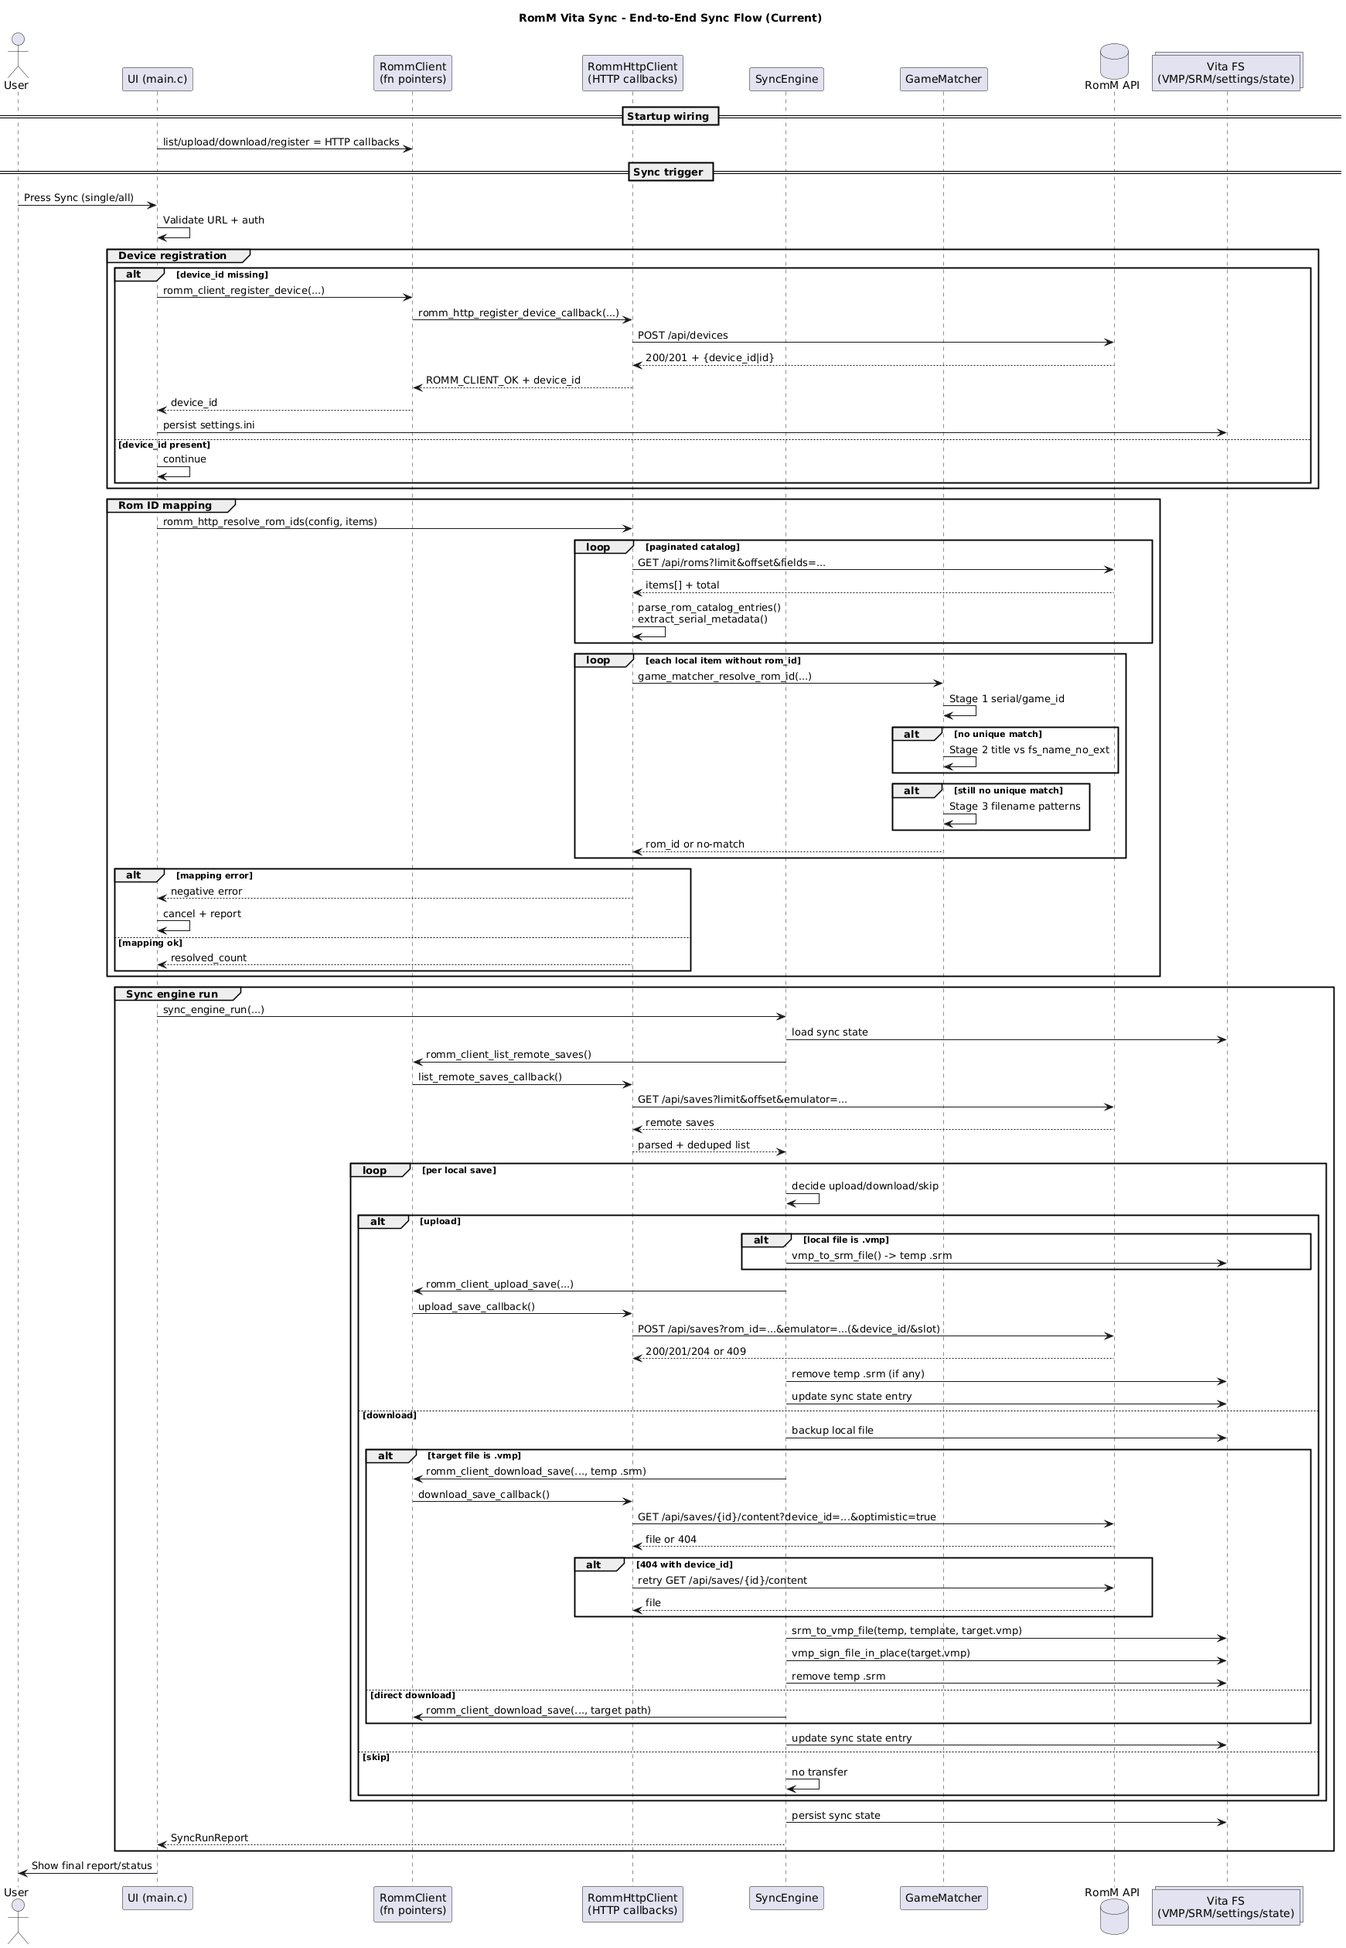
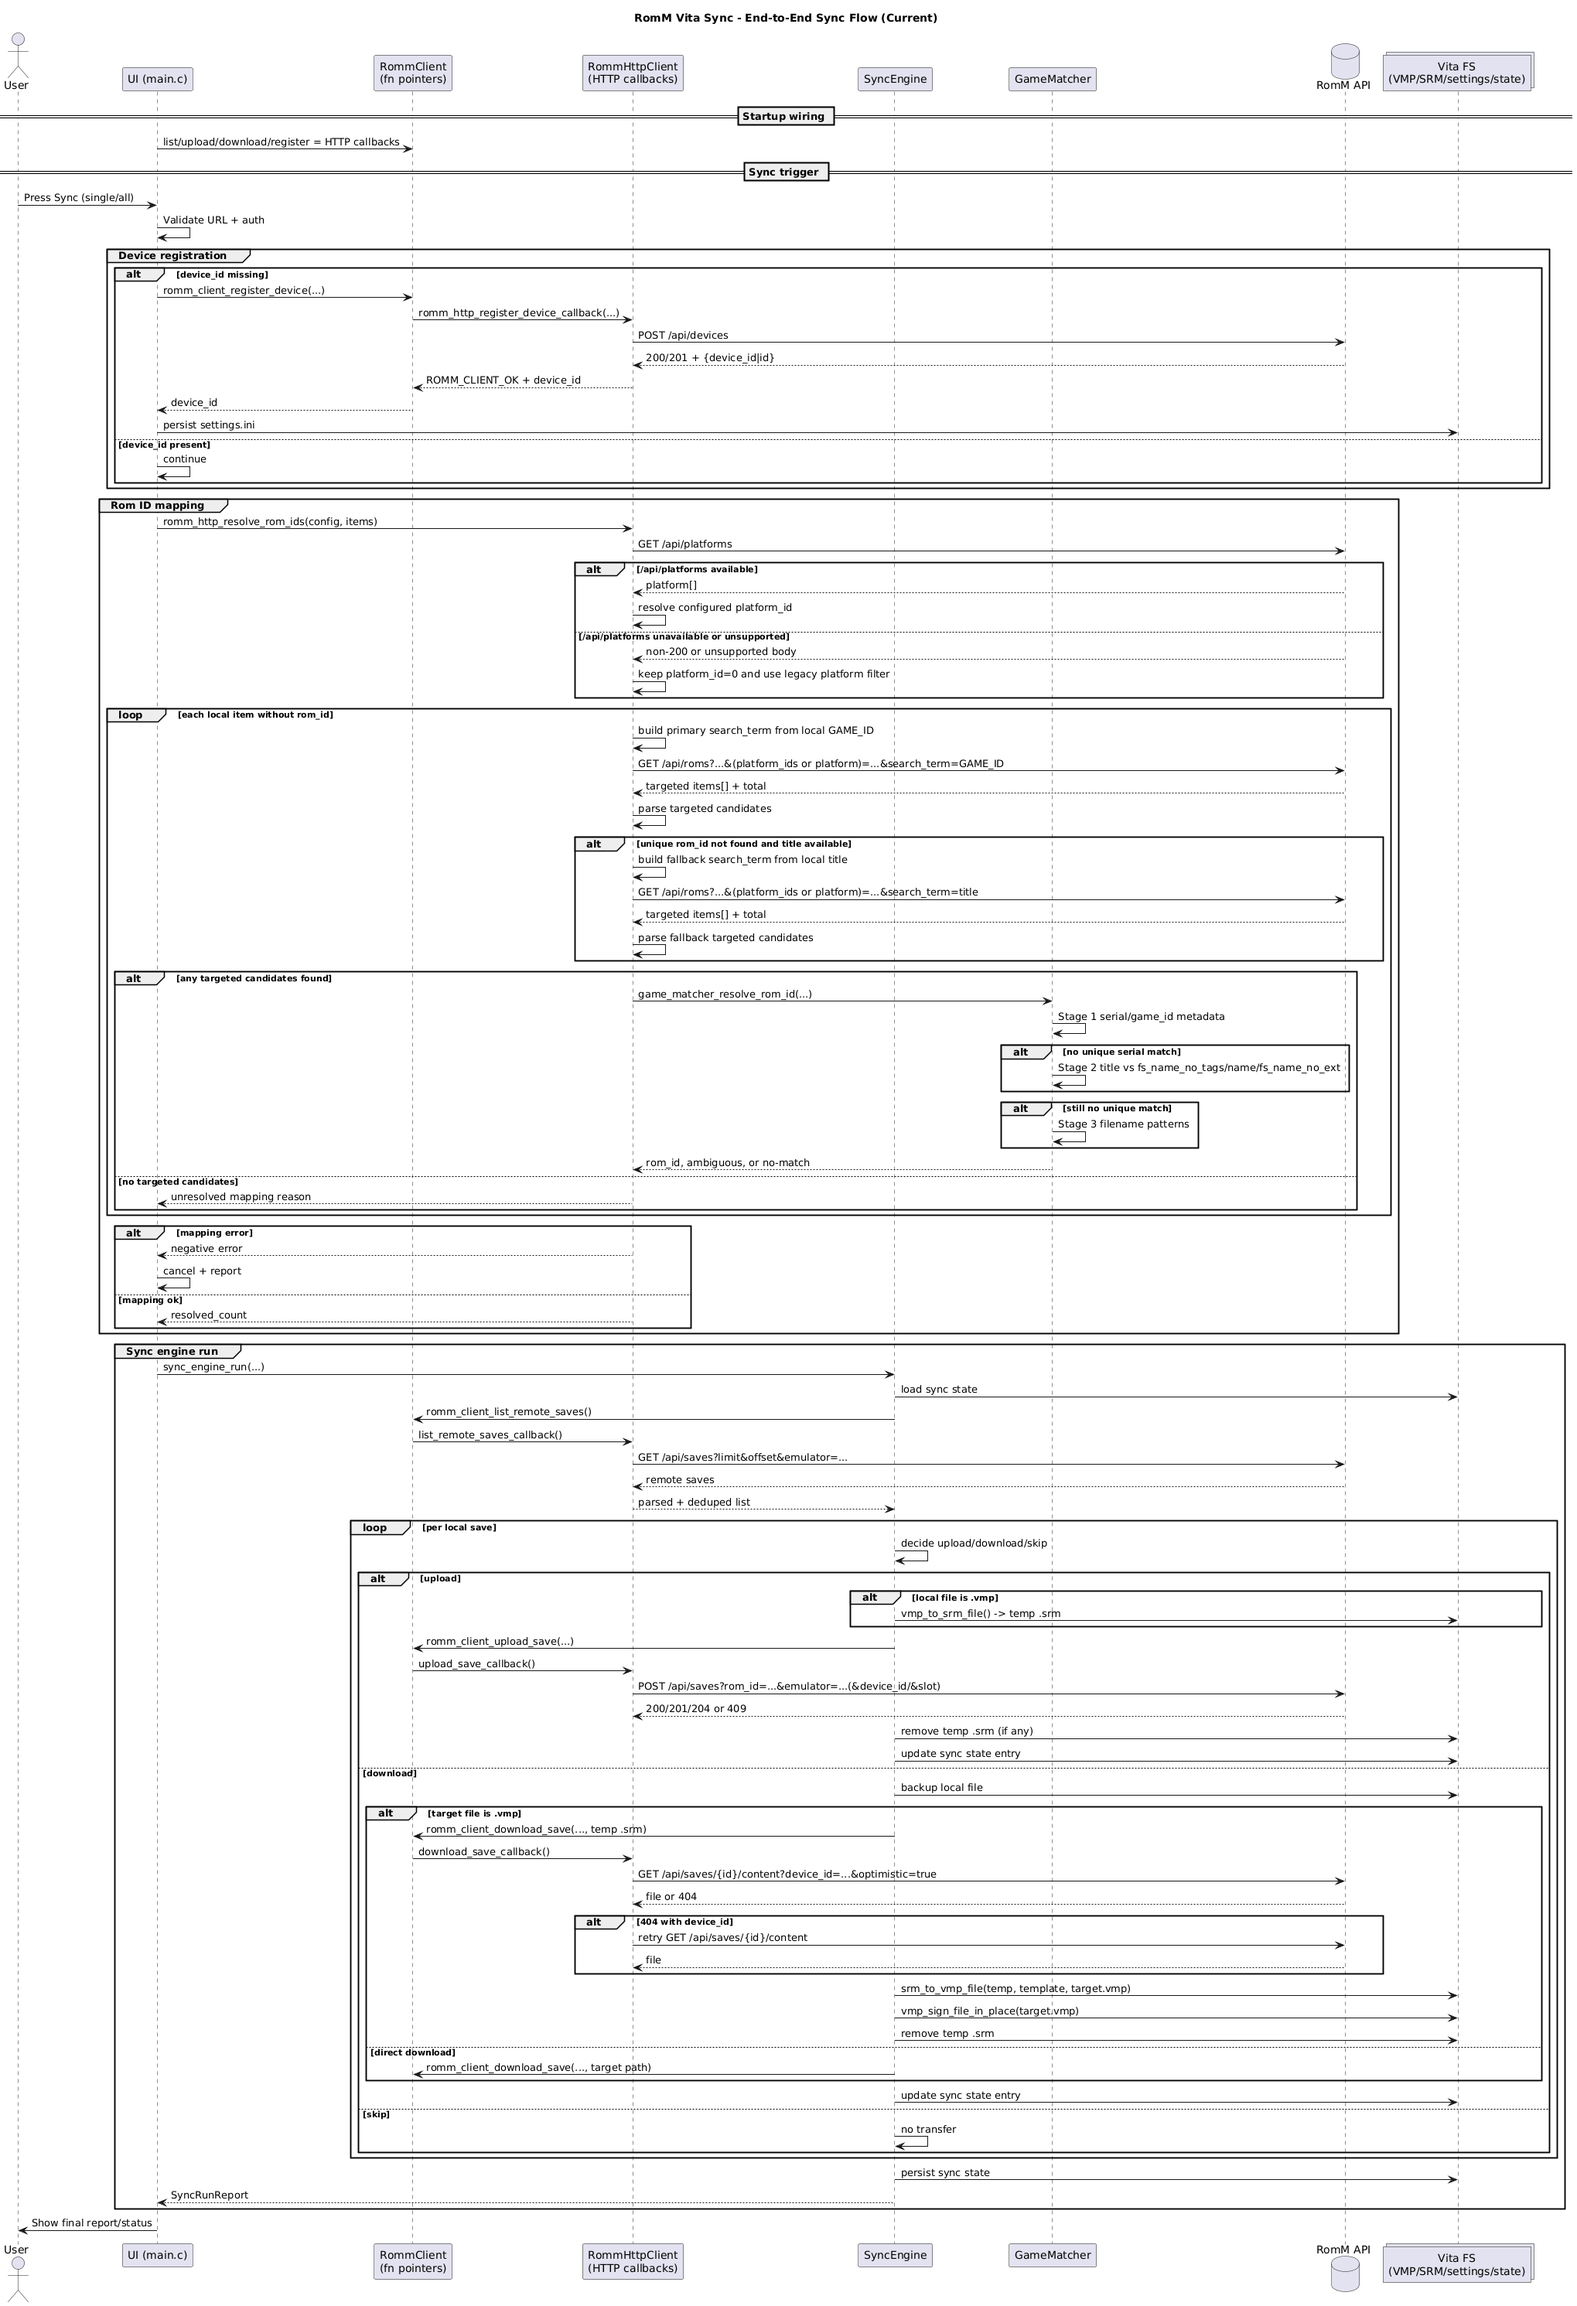
feat(sync-engine): enhance Rom ID mapping with fallback logic

diff --git a/src/romm_http_client.c b/src/romm_http_client.c
@@ -433,25 +433,14 @@ static const char *romm_save_emulator(const AppConfig *config) {
 }
 
 /*
- * Builds a compact search term from a local title or GAME_ID for /api/roms.
+ * Builds a compact search term from one local text source for /api/roms.
  * Non-alnum separators collapse to single spaces so symbols like TM do not block matches.
  */
-static int build_rom_search_term(
-    const SyncSaveDescriptor *local_item,
+static int build_compact_search_term(
+    const char *source,
     char *out_term,
     size_t out_term_size) {
-  if ((local_item == NULL) || (out_term == NULL) || (out_term_size == 0U)) {
-    return -1;
-  }
-
-  out_term[0] = '\0';
-
-  const char *source = NULL;
-  if (has_text(local_item->title)) {
-    source = local_item->title;
-  } else if (has_text(local_item->game_id)) {
-    source = local_item->game_id;
-  } else {
+  if (!has_text(source) || (out_term == NULL) || (out_term_size == 0U)) {
     return -1;
   }
 
@@ -479,6 +468,41 @@ static int build_rom_search_term(
   out_term[out] = '\0';
 
   return (out >= 4U) ? 0 : -1;
+}
+
+/*
+ * Builds the primary /api/roms search term.
+ * Prefer GAME_ID because it is usually the most stable identifier across localized titles.
+ */
+static int build_rom_search_term(
+    const SyncSaveDescriptor *local_item,
+    char *out_term,
+    size_t out_term_size) {
+  if ((local_item == NULL) || (out_term == NULL) || (out_term_size == 0U)) {
+    return -1;
+  }
+
+  out_term[0] = '\0';
+  if (build_compact_search_term(local_item->game_id, out_term, out_term_size) == 0) {
+    return 0;
+  }
+
+  return build_compact_search_term(local_item->title, out_term, out_term_size);
+}
+
+/*
+ * Builds a secondary title-based search term when GAME_ID pre-filtering misses localized entries.
+ */
+static int build_rom_title_search_term(
+    const SyncSaveDescriptor *local_item,
+    char *out_term,
+    size_t out_term_size) {
+  if ((local_item == NULL) || (out_term == NULL) || (out_term_size == 0U)) {
+    return -1;
+  }
+
+  out_term[0] = '\0';
+  return build_compact_search_term(local_item->title, out_term, out_term_size);
 }
 
 /*
@@ -2005,7 +2029,8 @@ static int parse_platform_id_from_list(
 
 /*
  * Looks up the numeric RomM platform id used by current API versions.
- * Returns ROMM_CLIENT_OK on success, with out_platform_id set to 0 when no match exists.
+ * Returns ROMM_CLIENT_OK on success, with out_platform_id set to 0 when no match exists
+ * or when /api/platforms is unavailable and the legacy rom query should be used instead.
  */
 static int resolve_platform_id(
     const AppConfig *config,
@@ -2038,16 +2063,23 @@ static int resolve_platform_id(
     return ROMM_CLIENT_ERR_AUTH;
   }
   if (status_code != 200) {
-    app_log_write(APP_LOG_LEVEL_WARN, "http", "platform lookup failed status=%d", status_code);
+    app_log_write(
+        APP_LOG_LEVEL_WARN,
+        "http",
+        "platform lookup failed status=%d; falling back to legacy rom query",
+        status_code);
     free(body);
-    return ROMM_CLIENT_ERR_NETWORK;
+    return ROMM_CLIENT_OK;
   }
 
   int parse_status = parse_platform_id_from_list(body, platform_slug, out_platform_id);
   free(body);
   if (parse_status < 0) {
-    app_log_write(APP_LOG_LEVEL_WARN, "http", "platform lookup returned unsupported response format");
-    return ROMM_CLIENT_ERR_NETWORK;
+    app_log_write(
+        APP_LOG_LEVEL_WARN,
+        "http",
+        "platform lookup returned unsupported response format; falling back to legacy rom query");
+    return ROMM_CLIENT_OK;
   }
 
   if (*out_platform_id > 0) {
@@ -2469,40 +2501,61 @@ int romm_http_resolve_rom_ids(
 
     char search_term[ROMM_HTTP_MAX_SEARCH_TERM];
     search_term[0] = '\0';
-    if (build_rom_search_term(local_item, search_term, sizeof(search_term)) == 0) {
-      if (!sync_string_ieq(search_term, last_search_term)) {
-        int search_status = fetch_rom_catalog(
-            config,
-            platform_filter,
-            platform_id,
-            search_term,
-            search_catalog,
-            ROMM_HTTP_MAX_SEARCH_ROMS,
-            body,
-            ROMM_HTTP_MAX_BODY_SIZE,
-            &last_search_count);
-        if (search_status < 0) {
-          free(body);
-          free(search_catalog);
-          return search_status;
-        }
-        safe_copy(last_search_term, sizeof(last_search_term), search_term);
-      }
+    char fallback_search_term[ROMM_HTTP_MAX_SEARCH_TERM];
+    fallback_search_term[0] = '\0';
 
-      if (last_search_count > 0) {
-        resolved_rom_id = game_matcher_resolve_rom_id_with_details(
+    const char *search_terms[2];
+    int search_term_count = 0;
+    if (build_rom_search_term(local_item, search_term, sizeof(search_term)) == 0) {
+      search_terms[search_term_count++] = search_term;
+    }
+    if ((build_rom_title_search_term(local_item, fallback_search_term, sizeof(fallback_search_term)) == 0) &&
+        ((search_term_count == 0) || !sync_string_ieq(fallback_search_term, search_term))) {
+      search_terms[search_term_count++] = fallback_search_term;
+    }
+
+    if (search_term_count > 0) {
+      for (int term_index = 0; term_index < search_term_count; ++term_index) {
+        const char *active_search_term = search_terms[term_index];
+        if (!sync_string_ieq(active_search_term, last_search_term)) {
+          int search_status = fetch_rom_catalog(
+              config,
+              platform_filter,
+              platform_id,
+              active_search_term,
+              search_catalog,
+              ROMM_HTTP_MAX_SEARCH_ROMS,
+              body,
+              ROMM_HTTP_MAX_BODY_SIZE,
+              &last_search_count);
+          if (search_status < 0) {
+            free(body);
+            free(search_catalog);
+            return search_status;
+          }
+          safe_copy(last_search_term, sizeof(last_search_term), active_search_term);
+        }
+
+        if (last_search_count <= 0) {
+          continue;
+        }
+
+        GameMatcherResolution candidate_resolution;
+        int candidate_rom_id = game_matcher_resolve_rom_id_with_details(
             local_item,
             search_catalog,
             last_search_count,
-            &resolution);
-      } else {
-        app_log_write(
-            APP_LOG_LEVEL_WARN,
-            "http",
-            "no RomM candidates found for game=%s title=%s term=%s",
-            local_item->game_id,
-            local_item->title,
-            search_term);
+            &candidate_resolution);
+        if (candidate_rom_id > 0) {
+          resolved_rom_id = candidate_rom_id;
+          resolution = candidate_resolution;
+          break;
+        }
+        if ((candidate_rom_id == GAME_MATCHER_AMBIGUOUS) &&
+            (resolved_rom_id != GAME_MATCHER_AMBIGUOUS)) {
+          resolved_rom_id = candidate_rom_id;
+          resolution = candidate_resolution;
+        }
       }
     } else {
       app_log_write(

diff --git a/docs/index.md b/docs/index.md
@@ -54,7 +54,7 @@ Current integration status:
 - real HTTP device registration is implemented (`POST /api/devices`)
 - upload/download conversion logic is integrated in `SyncEngine`
 - real HTTP save transfer callbacks are wired (`list/upload/download`)
-- local Vita saves are now mapped to RomM `rom_id` by resolving the platform via `/api/platforms`, then querying `/api/roms` with targeted `search_term` requests only
+- local Vita saves are now mapped to RomM `rom_id` by trying `/api/platforms` first, then querying `/api/roms` with targeted `search_term` requests using `GAME_ID` first and `title` as fallback
 
 
 ## Execution Model (Version 1)
@@ -657,10 +657,11 @@ RomM device registration is now wired to the real HTTP endpoint (`POST /api/devi
 Save listing/upload/download are now wired to real HTTP callbacks in `main.c` (`/api/saves` endpoints).
 Local Vita items are resolved to server `rom_id` before sync decisions by:
 
-- resolving the configured platform through `/api/platforms`
-- trying a targeted RomM lookup first through `/api/roms?platform_ids=...&search_term=...`
+- resolving the configured platform through `/api/platforms` when available, otherwise falling back to the legacy RomM `platform=` query
+- trying a targeted RomM lookup first through `/api/roms` with `search_term`, using `platform_ids=...` when a numeric platform id is available and `platform=...` otherwise
+- preferring local `GAME_ID` as the primary search term, then retrying with the local title when needed
 - matching candidates by serial metadata first, then title (`fs_name_no_tags`, `name`, `fs_name_no_ext`), then filename patterns
-- surfacing an explicit user-facing warning when the targeted lookup returns no candidate
+- surfacing unresolved mappings to the UI when no targeted candidate set yields a unique `rom_id`
 
 Conversion is now wired in the app sync flow:
 
@@ -669,14 +670,18 @@ Conversion is now wired in the app sync flow:
 
 ## End-to-End Sync Sequence Diagram
 
+![RomM Vita Sync end-to-end sequence](assets/diagrams/romm-vita-sync-end-to-end-sync-flow.png)
+
 Current Rom ID mapping flow:
 
-1. The app resolves the configured RomM platform through `/api/platforms`.
-2. It first narrows candidates with `/api/roms?platform_ids=...&search_term=...`.
-3. Each local save is matched by serial metadata first.
-4. If serial matching is not unique, the matcher tries title-based candidates in this order: `fs_name_no_tags`, `name`, `fs_name_no_ext`.
-5. If title matching is still not unique, the matcher falls back to filename-pattern scoring inside the targeted candidate set.
-6. If the targeted lookup returns no candidate, the UI reports that explicitly instead of loading the full platform catalog.
+1. The app tries to resolve the configured RomM platform through `/api/platforms`.
+2. If `/api/platforms` is unavailable or returns an unsupported response, Rom ID lookup falls back to the legacy `/api/roms?...&platform=...` query path.
+3. For each local save, the app first narrows candidates with a targeted `/api/roms?...&search_term=...` request using the local `GAME_ID` when present.
+4. If the targeted `GAME_ID` search does not yield a unique match, the app retries the targeted lookup with the local title when available.
+5. Each targeted candidate set is matched by serial metadata first.
+6. If serial matching is not unique, the matcher tries title-based candidates in this order: `fs_name_no_tags`, `name`, `fs_name_no_ext`.
+7. If title matching is still not unique, the matcher falls back to filename-pattern scoring inside the targeted candidate set.
+8. If no targeted candidate set yields a unique match, the UI reports the save as unresolved and aborts sync before transfer decisions.
 
 ## Contributing
 
